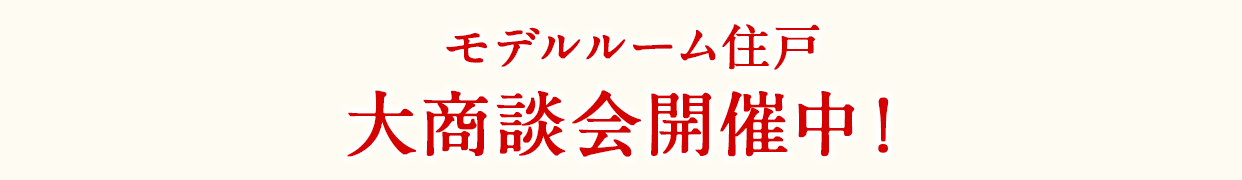
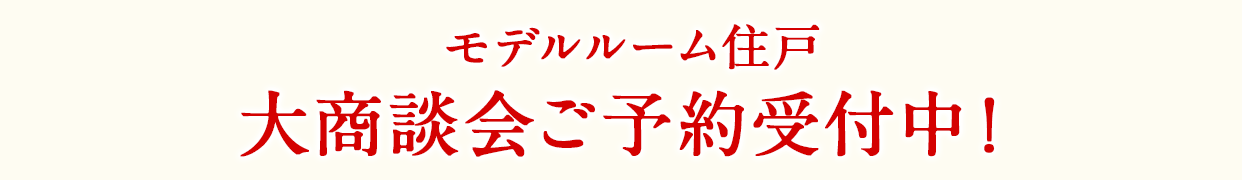
http://redmine.fudosan-king.jp/issues/6590

Changed region(s): [[0.1836, 0.5, 0.8261, 0.8889], [0.7955, 0.8056, 0.8261, 0.8333]]

diff --git a/prostyle-residence/www/nakanotetsugakudo/index.php b/prostyle-residence/www/nakanotetsugakudo/index.php
@@ -158,7 +158,7 @@
 	      							<p class="content">
 		      							<span class="text-up">モデルルーム住戸 大商談会開催中！【完全予約制】</span><br>
 		      							<br>
-										※マンションギャラリーには係員が常駐しておりません。必ずご予約のうえ、ご来場ください。<br>WEB来場予約は<a class="link_sumotimo" href="/nakanotetsugakudo/contact/reservation/">こちら</a>から<br>
+										WEB来場予約は<a class="link_sumotimo" href="/nakanotetsugakudo/contact/reservation/">こちら</a>から<br>
 									</p>
 	      						</div>
 	      						<div class="box_informations">
@@ -170,6 +170,14 @@
 			      								</div>
 			      								<div class="col-12 col-sm-12 col-md-9 align-self-center">
 			      									<div class="box_informations_content">
+			      										<div class="row">
+			      											<div class="col-3 col-sm-2 align-self-center">
+			      												<p>2020.6.1</p>
+			      											</div>
+			      											<div class="col-9 col-sm-10 align-self-center">
+			      												<p>モデルルーム住戸大商談会開催中です。</p>
+			      											</div>
+			      										</div>
 			      										<div class="row">
 			      											<div class="col-3 col-sm-2 align-self-center">
 			      												<p>2020.4.15</p>

diff --git a/prostyle-residence/www/nakanotetsugakudo/outline.php b/prostyle-residence/www/nakanotetsugakudo/outline.php
@@ -273,7 +273,7 @@
 					      			</tr>
 					      		</table>
 
-					      		<p class="mb-5 text-center">更新日<span>（5月20日）</span>・更新予定日<span>（6月1日）</span></p>
+					      		<p class="mb-5 text-center">更新日<span>（6月1日）</span>・更新予定日<span>（6月15日）</span></p>
 
 	      					</div>
 	      				</div>
